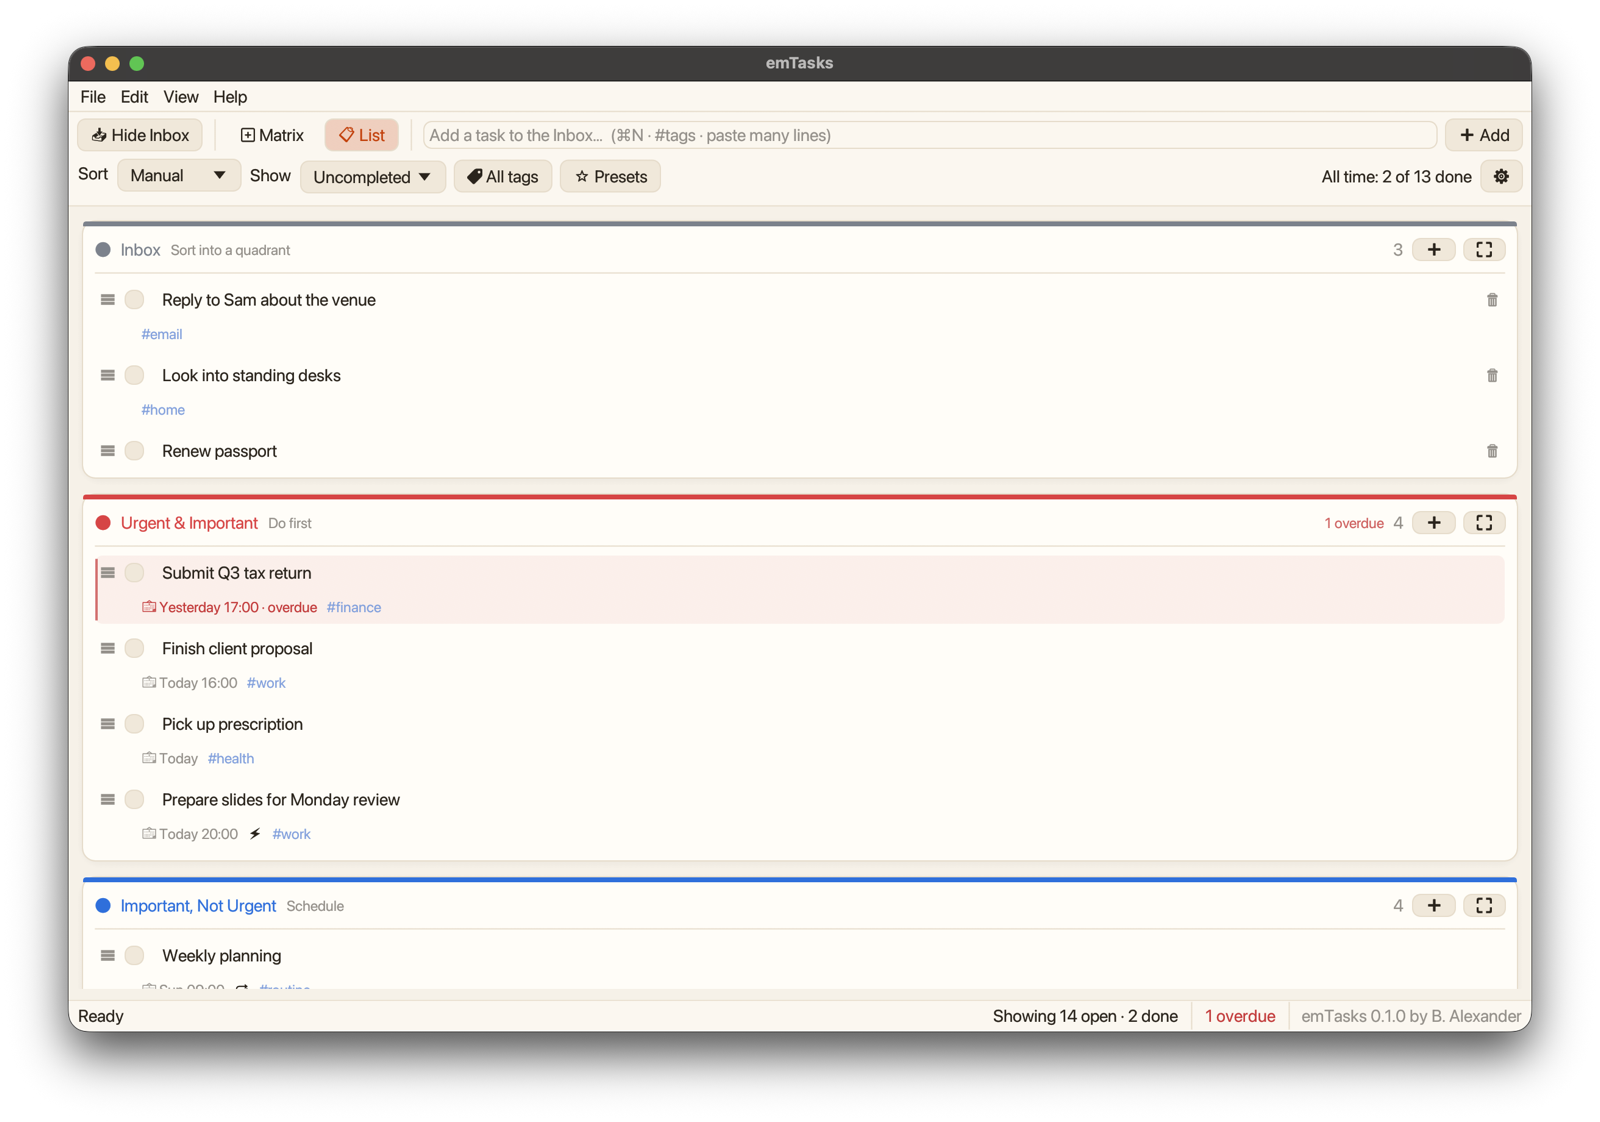
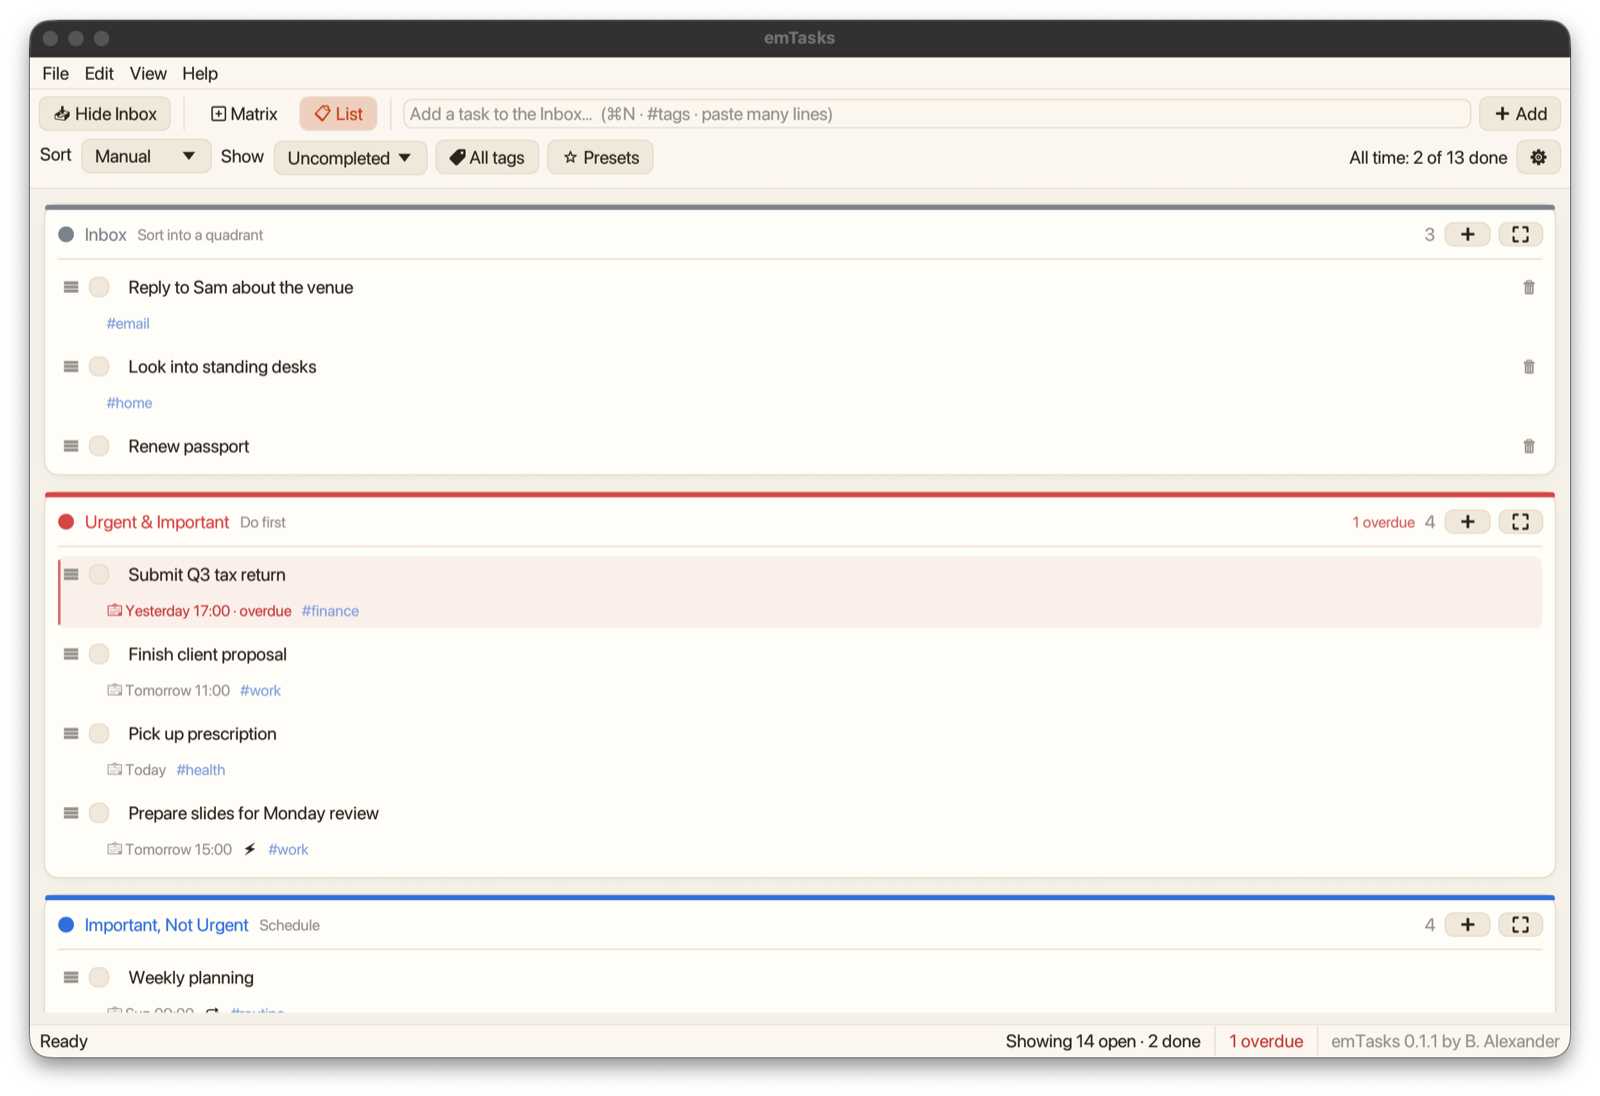
Screenshots for 0.1.1; screenshot script works across Spaces and at any time of day

Changed region(s): [[0.0, 0.0, 1.0, 0.9927]]

diff --git a/emtasks/packaging/screenshots/winid.swift b/emtasks/packaging/screenshots/winid.swift
@@ -1,6 +1,18 @@
+// Print the main window id of a process: its "emTasks" window, preferring one that's on screen,
+// otherwise the largest. Searches every Space, so it works even when another desktop is showing.
 import CoreGraphics
 let pid = Int32(CommandLine.arguments[1])!
-let list = CGWindowListCopyWindowInfo([.optionOnScreenOnly], kCGNullWindowID) as! [[String: Any]]
-for w in list where (w[kCGWindowOwnerPID as String] as? Int32) == pid && (w[kCGWindowLayer as String] as? Int) == 0 {
-    print(w[kCGWindowNumber as String]!); break
+let all = CGWindowListCopyWindowInfo([.optionAll], kCGNullWindowID) as! [[String: Any]]
+let mine = all.filter { ($0[kCGWindowOwnerPID as String] as? Int32) == pid && ($0[kCGWindowLayer as String] as? Int) == 0 }
+func area(_ w: [String: Any]) -> Double {
+    let b = w[kCGWindowBounds as String] as? [String: Any] ?? [:]
+    return (b["Width"] as? Double ?? 0) * (b["Height"] as? Double ?? 0)
+}
+func score(_ w: [String: Any]) -> (Int, Int, Double) {
+    ((w[kCGWindowName as String] as? String) == "emTasks" ? 1 : 0,
+     (w[kCGWindowIsOnscreen as String] as? Bool) == true ? 1 : 0,
+     area(w))
+}
+if let best = mine.max(by: { score($0) < score($1) }), area(best) > 10_000 {
+    print(best[kCGWindowNumber as String]!)
 }

diff --git a/emtasks/packaging/screenshots/make_sample.py b/emtasks/packaging/screenshots/make_sample.py
@@ -1,5 +1,6 @@
 # Writes a emTasks data file with made-up sample tasks (dates relative to today) for screenshots.
 # Usage: python3 make_sample.py <Theme> <output .ron> [Matrix|List]
+# Dates are fixed days relative to today (and a 48 h urgent window), so shots look the same at any time of day.
 import sys, time, datetime as dt
 theme, out = sys.argv[1], sys.argv[2]
 view = sys.argv[3] if len(sys.argv) > 3 else "Matrix"
@@ -21,9 +22,9 @@ t("Reply to Sam about the venue", "Unsorted", tags=["email"])
 t("Look into standing desks", "Unsorted", tags=["home"])
 t("Renew passport", "Unsorted")
 t("Submit Q3 tax return", "Do", due=today - D + 17*H, tags=["finance"], notes="Receipts are in the Taxes folder.")
-t("Finish client proposal", "Do", due=today + 16*H, tags=["work"])
+t("Finish client proposal", "Do", due=today + D + 11*H, tags=["work"])
 t("Pick up prescription", "Do", due=today, all_day=True, tags=["health"])
-t("Prepare slides for Monday review", "Schedule", due=today + 20*H, tags=["work"])
+t("Prepare slides for Monday review", "Schedule", due=today + D + 15*H, tags=["work"])
 t("Weekly planning", "Schedule", due=today + 4*D + 9*H, tags=["routine"], repeat="Week")
 t("Book annual health check-up", "Schedule", due=today + 12*D, all_day=True, tags=["health"])
 t("Read 'Deep Work', chapter 3", "Schedule", tags=["learning"])
@@ -35,5 +36,5 @@ t("Reorganise bookmarks", "Eliminate")
 t("Draft blog post ideas", "Schedule", tags=["writing"], done_ago=2*D)
 data = f"""(version:1,tasks:[{",".join(tasks)}],next_id:{len(tasks)+1},
 filter:(tags:[],status:Active,sort:Manual),presets:[],view:{view},theme:{theme},
-settings:(auto_urgent:true,urgent_hours:24,show_inbox:true,documents_backup:false,keep_completed:Week))"""
+settings:(auto_urgent:true,urgent_hours:48,show_inbox:true,documents_backup:false,keep_completed:Week))"""
 open(out, "w").write(data)
